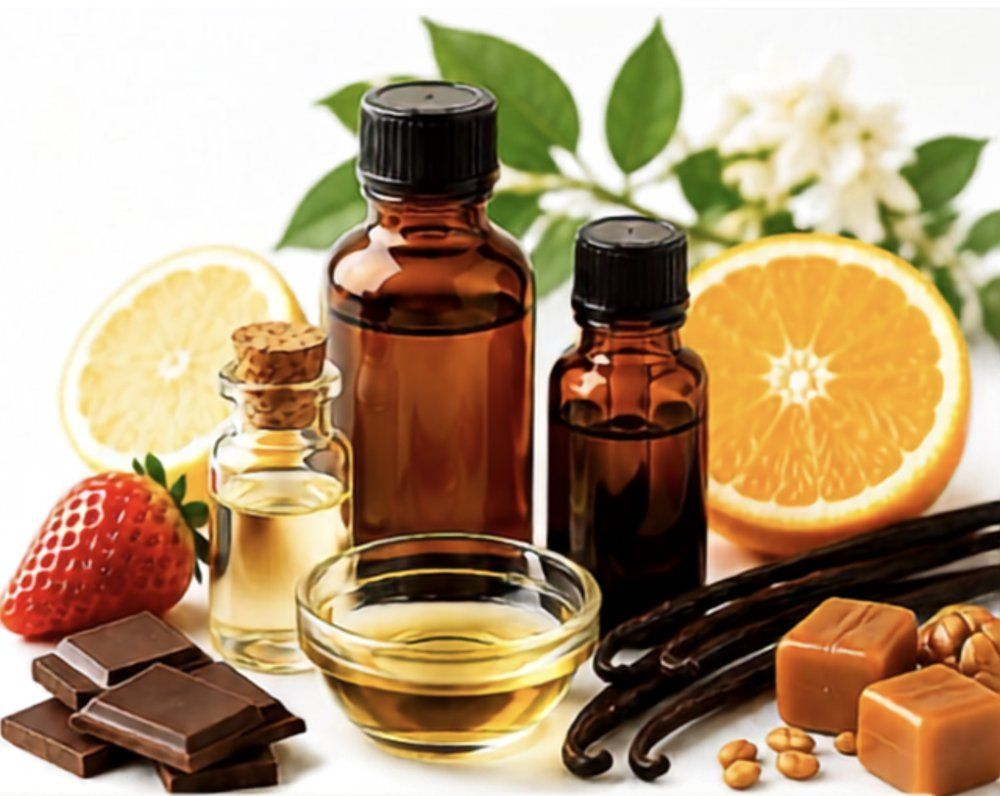
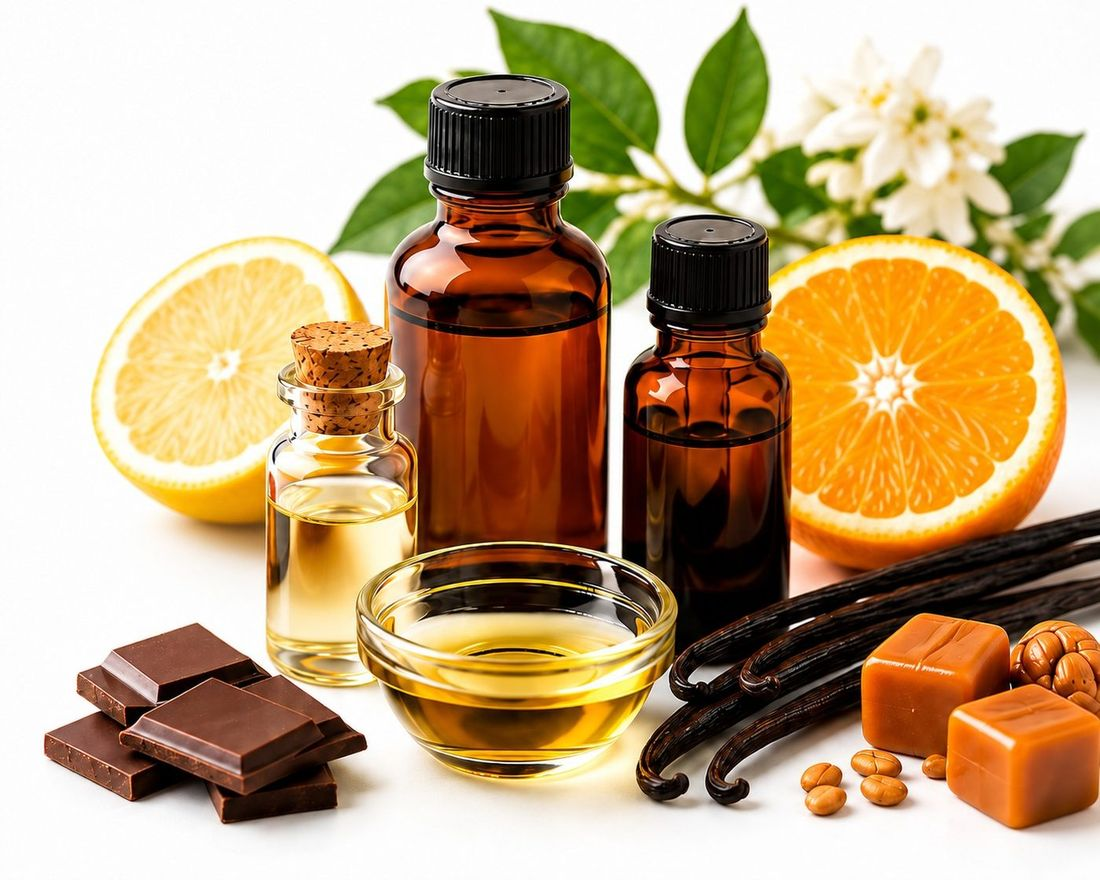
Review fixes: new images, group band contrast, PT-PT copy, richer mailto
- Replace beta-glucan, oils & butters and flavours images; update alt text
- Fix invisible YSC/Intercolor headings in light theme; align group columns
- European Portuguese wording (à medida, fitoterapêuticos, antisséticas, misturas aromáticas)
- Data sheet mailto now includes product and a request template, per language
- Add copy-to-clipboard button next to contact email
- Add .assetsignore so .git and wrangler config are not deployed

diff --git a/index.html b/index.html
@@ -329,15 +329,15 @@
 
   /* ============ GRUPO ============ */
   .group-strip{
-    display:grid;grid-template-columns:1fr auto 1fr;gap:clamp(1.5rem,4vw,3rem);align-items:center;
+    display:grid;grid-template-columns:1fr auto 1fr;gap:clamp(1.5rem,4vw,3rem);align-items:start;
     background:var(--group-bg);color:var(--group-fg);border:1px solid var(--color-border);border-radius:var(--radius);
     padding:clamp(1.8rem,4vw,2.6rem);
   }
   .group-co{text-align:center;}
   .group-co .yr{font-family:var(--font-mono);font-size:.78rem;letter-spacing:.08em;opacity:.75;}
-  .group-co h3{font-family:var(--font-display);font-size:1.5rem;margin-top:.3rem;}
+  .group-co h3{font-family:var(--font-display);font-size:1.5rem;margin-top:.3rem;color:inherit;}
   .group-co p{margin-top:.4rem;font-size:.85rem;opacity:.85;max-width:24ch;margin-inline:auto;}
-  .group-plus{font-family:var(--font-display);font-size:1.8rem;opacity:.6;text-align:center;}
+  .group-plus{font-family:var(--font-display);font-size:1.8rem;opacity:.6;text-align:center;align-self:center;}
   @media (max-width:700px){
     .group-strip{grid-template-columns:1fr;}
     .group-plus{transform:rotate(90deg);}
@@ -358,6 +358,13 @@
   .contact-list .item .lbl{font-family:var(--font-mono);font-size:.72rem;text-transform:uppercase;letter-spacing:.08em;color:var(--color-text-muted);}
   .contact-list .item a{text-decoration:none;font-weight:600;}
   .contact-list .item a:hover{color:var(--color-brand);}
+  .copy-btn{display:inline-grid;place-items:center;vertical-align:middle;margin-left:.45rem;width:28px;height:28px;padding:0;
+    background:none;border:1px solid var(--color-border);border-radius:6px;cursor:pointer;color:var(--color-text-muted);}
+  .copy-btn:hover{color:var(--color-text);border-color:var(--color-brand);}
+  .copy-btn svg{width:14px;height:14px;}
+  .copy-btn .ok,.copy-btn.copied .cp{display:none;}
+  .copy-btn.copied .ok{display:block;}
+  .copy-btn.copied{color:var(--color-brand);border-color:var(--color-brand);}
   @media (max-width:760px){.contact-panel{grid-template-columns:1fr;}}
 
   footer{border-top:1px solid var(--color-border);margin-top:2rem;}
@@ -476,7 +483,7 @@
         <div class="product-media"><span class="product-tag">YSC · desde 1966</span><img src="img/menta.jpg" loading="lazy" decoding="async" alt="Folhas de Menta Arvensis, matéria-prima do mentol natural"></div>
         <div class="product-body">
           <h3>Mentol Natural<em>Menta Arvensis</em></h3>
-          <p class="lead">A YSC, empresa do grupo, é a única produtora brasileira de mentol natural — um ingrediente de elevada pureza, origem rastreável e qualidade consistente, reconhecido pelas propriedades refrescantes, analgésicas e antissépticas.</p>
+          <p class="lead">A YSC, empresa do grupo, é a única produtora brasileira de mentol natural — um ingrediente de elevada pureza, origem rastreável e qualidade consistente, reconhecido pelas propriedades refrescantes, analgésicas e antisséticas.</p>
           <div class="spec-block">
             <h4>Apresentações disponíveis</h4>
             <div class="chip-row">
@@ -494,10 +501,10 @@
             <ul class="app-list">
               <li>Ativos refrescantes e analgésicos para OTC, higiene oral e dermocosmética</li>
               <li>Base industrial para extração de mentol e formulações farmacêuticas/cosméticas</li>
-              <li>Perfumaria funcional e blends aromáticos</li>
+              <li>Perfumaria funcional e misturas aromáticas</li>
             </ul>
           </div>
-          <div class="product-cta"><a class="btn btn-outline" href="mailto:ysclpharma@ysclpharma.com?subject=Pedido%20de%20ficha%20t%C3%A9cnica%20%E2%80%94%20Mentol%20Natural">Pedir ficha técnica</a></div>
+          <div class="product-cta"><a data-product="Mentol Natural" class="btn btn-outline" href="mailto:ysclpharma@ysclpharma.com?subject=Pedido%20de%20ficha%20t%C3%A9cnica%20%E2%80%94%20Mentol%20Natural">Pedir ficha técnica</a></div>
         </div>
       </article>
 
@@ -528,20 +535,20 @@
           <div class="spec-block">
             <h4>Aplicações</h4>
             <ul class="app-list">
-              <li>Produtos farmacêuticos e fitoterápicos</li>
+              <li>Produtos farmacêuticos e fitoterapêuticos</li>
               <li>Cosmética, dermocosmética e cuidados capilares</li>
               <li>Aromaterapia, sabonetes e higiene pessoal</li>
             </ul>
           </div>
-          <div class="product-cta"><a class="btn btn-outline" href="mailto:ysclpharma@ysclpharma.com?subject=Pedido%20de%20ficha%20t%C3%A9cnica%20%E2%80%94%20%C3%93leos%20%26%20Manteigas%20Naturais">Pedir ficha técnica</a></div>
+          <div class="product-cta"><a data-product="Óleos &amp; Manteigas Naturais" class="btn btn-outline" href="mailto:ysclpharma@ysclpharma.com?subject=Pedido%20de%20ficha%20t%C3%A9cnica%20%E2%80%94%20%C3%93leos%20%26%20Manteigas%20Naturais">Pedir ficha técnica</a></div>
         </div>
       </article>
 
       <article class="product">
-        <div class="product-media"><span class="product-tag">Intercolor · desde 1987</span><img src="img/aromas.jpg" loading="lazy" decoding="async" alt="Frascos de óleos essenciais e velas para aromaterapia"></div>
+        <div class="product-media"><span class="product-tag">Intercolor · desde 1987</span><img src="img/aromas.jpg" loading="lazy" decoding="async" alt="Frascos de aromas com laranja, limão, baunilha, chocolate e caramelo"></div>
         <div class="product-body">
           <h3>Aromas Personalizados</h3>
-          <p class="lead">Na Intercolor desenvolvemos aromas sob medida para cada cliente, mercado e aplicação — pela reprodução fiel de um perfil sensorial de referência ou pela criação de soluções exclusivas, alinhadas ao posicionamento de cada produto.</p>
+          <p class="lead">Na Intercolor desenvolvemos aromas à medida para cada cliente, mercado e aplicação — pela reprodução fiel de um perfil sensorial de referência ou pela criação de soluções exclusivas, alinhadas ao posicionamento de cada produto.</p>
           <div class="spec-block">
             <h4>Indústrias servidas</h4>
             <div class="chip-row">
@@ -557,7 +564,7 @@
               <span class="chip">Preparação Hidrossolúvel</span><span class="chip">Preparação Lipossolúvel</span>
             </div>
           </div>
-          <div class="product-cta"><a class="btn btn-outline" href="mailto:ysclpharma@ysclpharma.com?subject=Pedido%20de%20ficha%20t%C3%A9cnica%20%E2%80%94%20Aromas%20Personalizados">Pedir ficha técnica</a></div>
+          <div class="product-cta"><a data-product="Aromas Personalizados" class="btn btn-outline" href="mailto:ysclpharma@ysclpharma.com?subject=Pedido%20de%20ficha%20t%C3%A9cnica%20%E2%80%94%20Aromas%20Personalizados">Pedir ficha técnica</a></div>
         </div>
       </article>
     </div>
@@ -585,7 +592,7 @@
               <span class="chip">Nutrição Desportiva</span><span class="chip">Saúde Oral</span><span class="chip">Aplicações Veterinárias</span>
             </div>
           </div>
-          <div class="product-cta"><a class="btn btn-outline" href="mailto:ysclpharma@ysclpharma.com?subject=Pedido%20de%20ficha%20t%C3%A9cnica%20%E2%80%94%20Probi%C3%B3ticos%2C%20Prebi%C3%B3ticos%20e%20P%C3%B3s-bi%C3%B3ticos">Pedir ficha técnica</a><button type="button" class="btn strain-toggle" aria-expanded="false" aria-controls="strain-panel">Ver estirpes disponíveis<svg viewBox="0 0 24 24" fill="none" stroke="currentColor" stroke-width="2" stroke-linecap="round" aria-hidden="true"><path d="M6 9l6 6 6-6"/></svg></button></div>
+          <div class="product-cta"><a data-product="Probióticos, Prebióticos e Pós-bióticos" class="btn btn-outline" href="mailto:ysclpharma@ysclpharma.com?subject=Pedido%20de%20ficha%20t%C3%A9cnica%20%E2%80%94%20Probi%C3%B3ticos%2C%20Prebi%C3%B3ticos%20e%20P%C3%B3s-bi%C3%B3ticos">Pedir ficha técnica</a><button type="button" class="btn strain-toggle" aria-expanded="false" aria-controls="strain-panel">Ver estirpes disponíveis<svg viewBox="0 0 24 24" fill="none" stroke="currentColor" stroke-width="2" stroke-linecap="round" aria-hidden="true"><path d="M6 9l6 6 6-6"/></svg></button></div>
         </div>
         <div class="strain-panel" id="strain-panel" hidden>
           <div class="strain-group">
@@ -623,7 +630,7 @@
       </div>
 
       <div class="bio-feature reverse">
-        <div class="bio-media"><span class="product-tag">S. cerevisiae · Parede celular</span><img src="img/beta-glucana.jpg" loading="lazy" decoding="async" alt="Cápsula de beta-glucana e estrutura molecular (1-3)(1-6) beta-D-glucano"><span class="bio-caption">Estrutura (1→3)(1→6) β-D-Glucano</span></div>
+        <div class="bio-media"><span class="product-tag">S. cerevisiae · Parede celular</span><img src="img/beta-glucana.jpg" loading="lazy" decoding="async" alt="Ilustração de uma partícula de beta-glucana"><span class="bio-caption">Estrutura (1→3)(1→6) β-D-Glucano</span></div>
         <div class="bio-text">
           <span class="eyebrow">Ingrediente funcional</span>
           <h3 style="margin-top:.5rem;">Beta-Glucana</h3>
@@ -641,7 +648,7 @@
             <span class="chip">Suplementação Alimentar</span><span class="chip">Alimentos Funcionais</span>
             <span class="chip">Nutrição Animal</span><span class="chip">Cosmética</span>
           </div>
-          <div class="product-cta"><a class="btn btn-outline" href="mailto:ysclpharma@ysclpharma.com?subject=Pedido%20de%20ficha%20t%C3%A9cnica%20%E2%80%94%20Beta-Glucana">Pedir ficha técnica</a></div>
+          <div class="product-cta"><a data-product="Beta-Glucana" class="btn btn-outline" href="mailto:ysclpharma@ysclpharma.com?subject=Pedido%20de%20ficha%20t%C3%A9cnica%20%E2%80%94%20Beta-Glucana">Pedir ficha técnica</a></div>
         </div>
       </div>
     </div>
@@ -695,14 +702,14 @@
           <h2>Vamos conversar sobre o seu projeto.</h2>
           <p class="lead">Peça a ficha técnica de qualquer ingrediente do nosso portfólio ou fale diretamente com a nossa equipa técnica sobre especificações, aplicações e disponibilidade.</p>
           <div class="contact-cta">
-            <a class="btn btn-accent" href="mailto:ysclpharma@ysclpharma.com?subject=Pedido%20de%20ficha%20t%C3%A9cnica">Pedir ficha técnica</a>
+            <a class="btn btn-accent" data-product="" href="mailto:ysclpharma@ysclpharma.com?subject=Pedido%20de%20ficha%20t%C3%A9cnica">Pedir ficha técnica</a>
             <a class="btn btn-outline" href="tel:+351935619005">Ligar agora</a>
           </div>
         </div>
         <div class="contact-list">
           <div class="item">
             <svg viewBox="0 0 24 24" fill="none" stroke="currentColor" stroke-width="1.8"><rect x="3" y="5" width="18" height="14" rx="2"/><path d="M3 7l9 6 9-6"/></svg>
-            <div><span class="lbl">Email</span><br><a href="mailto:ysclpharma@ysclpharma.com">ysclpharma@ysclpharma.com</a></div>
+            <div><span class="lbl">Email</span><br><a href="mailto:ysclpharma@ysclpharma.com">ysclpharma@ysclpharma.com</a><button type="button" class="copy-btn" data-copy="ysclpharma@ysclpharma.com" aria-label="Copiar email"><svg class="cp" viewBox="0 0 24 24" fill="none" stroke="currentColor" stroke-width="2" aria-hidden="true"><rect x="9" y="9" width="12" height="12" rx="2"/><path d="M5 15V5a2 2 0 0 1 2-2h10"/></svg><svg class="ok" viewBox="0 0 24 24" fill="none" stroke="currentColor" stroke-width="2.4" stroke-linecap="round" aria-hidden="true"><path d="M5 12l5 5 9-10"/></svg></button></div>
           </div>
           <div class="item">
             <svg viewBox="0 0 24 24" fill="none" stroke="currentColor" stroke-width="1.8"><path d="M22 16.9v3a2 2 0 0 1-2.2 2 19.8 19.8 0 0 1-8.6-3.1 19.5 19.5 0 0 1-6-6A19.8 19.8 0 0 1 2.1 4.2 2 2 0 0 1 4.1 2h3a2 2 0 0 1 2 1.7c.1.9.3 1.8.6 2.7a2 2 0 0 1-.5 2.1L8 9.7a16 16 0 0 0 6 6l1.2-1.2a2 2 0 0 1 2.1-.5c.9.3 1.8.5 2.7.6a2 2 0 0 1 1.7 2.1z"/></svg>
@@ -806,7 +813,7 @@
       "YSC · desde 1966":["YSC · since 1966","YSC · desde 1966"],
       "Folhas de Menta Arvensis, matéria-prima do mentol natural":["Mentha arvensis leaves, the raw material for natural menthol","Hojas de Menta Arvensis, materia prima del mentol natural"],
       "Mentol Natural":["Natural Menthol","Mentol Natural"],
-      "A YSC, empresa do grupo, é a única produtora brasileira de mentol natural — um ingrediente de elevada pureza, origem rastreável e qualidade consistente, reconhecido pelas propriedades refrescantes, analgésicas e antissépticas.":["YSC, a group company, is Brazil's only producer of natural menthol — a high-purity ingredient with traceable origin and consistent quality, known for its cooling, analgesic and antiseptic properties.","YSC, empresa del grupo, es la única productora brasileña de mentol natural — un ingrediente de alta pureza, origen trazable y calidad constante, reconocido por sus propiedades refrescantes, analgésicas y antisépticas."],
+      "A YSC, empresa do grupo, é a única produtora brasileira de mentol natural — um ingrediente de elevada pureza, origem rastreável e qualidade consistente, reconhecido pelas propriedades refrescantes, analgésicas e antisséticas.":["YSC, a group company, is Brazil's only producer of natural menthol — a high-purity ingredient with traceable origin and consistent quality, known for its cooling, analgesic and antiseptic properties.","YSC, empresa del grupo, es la única productora brasileña de mentol natural — un ingrediente de alta pureza, origen trazable y calidad constante, reconocido por sus propiedades refrescantes, analgésicas y antisépticas."],
       "Apresentações disponíveis":["Available forms","Presentaciones disponibles"],
       "Mentol Cristalizado Natural":["Natural Crystallised Menthol","Mentol Cristalizado Natural"],
       "Mentol Natural em Pó":["Natural Menthol Powder","Mentol Natural en Polvo"],
@@ -817,7 +824,7 @@
       "Óleo de Spearmint":["Spearmint Oil","Aceite de Hierbabuena"],
       "Ativos refrescantes e analgésicos para OTC, higiene oral e dermocosmética":["Cooling and analgesic actives for OTC, oral care and dermocosmetics","Activos refrescantes y analgésicos para OTC, higiene bucal y dermocosmética"],
       "Base industrial para extração de mentol e formulações farmacêuticas/cosméticas":["Industrial base for menthol extraction and pharmaceutical/cosmetic formulations","Base industrial para la extracción de mentol y formulaciones farmacéuticas/cosméticas"],
-      "Perfumaria funcional e blends aromáticos":["Functional perfumery and aromatic blends","Perfumería funcional y mezclas aromáticas"],
+      "Perfumaria funcional e misturas aromáticas":["Functional perfumery and aromatic blends","Perfumería funcional y mezclas aromáticas"],
       "YSC · Amazónia & Cerrado":["YSC · Amazon & Cerrado","YSC · Amazonía y Cerrado"],
       "Óleos essenciais, óleos vegetais e manteigas naturais":["Essential oils, vegetable oils and natural butters","Aceites esenciales, aceites vegetales y mantecas naturales"],
       "Óleos & Manteigas Naturais":["Natural Oils & Butters","Aceites y Mantecas Naturales"],
@@ -828,13 +835,13 @@
       "Eucalipto Globulus":["Eucalyptus Globulus","Eucalipto Globulus"],
       "Cravo-da-Índia":["Clove","Clavo"],
       "Manteigas naturais":["Natural butters","Mantecas naturales"],
-      "Produtos farmacêuticos e fitoterápicos":["Pharmaceutical and herbal products","Productos farmacéuticos y fitoterápicos"],
+      "Produtos farmacêuticos e fitoterapêuticos":["Pharmaceutical and herbal products","Productos farmacéuticos y fitoterápicos"],
       "Cosmética, dermocosmética e cuidados capilares":["Cosmetics, dermocosmetics and hair care","Cosmética, dermocosmética y cuidado capilar"],
       "Aromaterapia, sabonetes e higiene pessoal":["Aromatherapy, soaps and personal care","Aromaterapia, jabones e higiene personal"],
       "Intercolor · desde 1987":["Intercolor · since 1987","Intercolor · desde 1987"],
-      "Frascos de óleos essenciais e velas para aromaterapia":["Essential oil bottles and aromatherapy candles","Frascos de aceites esenciales y velas de aromaterapia"],
+      "Frascos de aromas com laranja, limão, baunilha, chocolate e caramelo":["Flavour bottles with orange, lemon, vanilla, chocolate and caramel","Frascos de aromas con naranja, limón, vainilla, chocolate y caramelo"],
       "Aromas Personalizados":["Custom Flavours","Aromas Personalizados"],
-      "Na Intercolor desenvolvemos aromas sob medida para cada cliente, mercado e aplicação — pela reprodução fiel de um perfil sensorial de referência ou pela criação de soluções exclusivas, alinhadas ao posicionamento de cada produto.":["At Intercolor we develop tailor-made flavours for each customer, market and application — by faithfully reproducing a reference sensory profile or by creating exclusive solutions aligned with each product's positioning.","En Intercolor desarrollamos aromas a medida para cada cliente, mercado y aplicación — mediante la reproducción fiel de un perfil sensorial de referencia o la creación de soluciones exclusivas, alineadas con el posicionamiento de cada producto."],
+      "Na Intercolor desenvolvemos aromas à medida para cada cliente, mercado e aplicação — pela reprodução fiel de um perfil sensorial de referência ou pela criação de soluções exclusivas, alinhadas ao posicionamento de cada produto.":["At Intercolor we develop tailor-made flavours for each customer, market and application — by faithfully reproducing a reference sensory profile or by creating exclusive solutions aligned with each product's positioning.","En Intercolor desarrollamos aromas a medida para cada cliente, mercado y aplicación — mediante la reproducción fiel de un perfil sensorial de referencia o la creación de soluciones exclusivas, alineadas con el posicionamiento de cada producto."],
       "Indústrias servidas":["Industries served","Industrias atendidas"],
       "Alimentar":["Food","Alimentaria"],
       "Bebidas":["Beverages","Bebidas"],
@@ -865,7 +872,7 @@
       "Saúde Oral":["Oral Health","Salud Bucal"],
       "Aplicações Veterinárias":["Veterinary Applications","Aplicaciones Veterinarias"],
       "S. cerevisiae · Parede celular":["S. cerevisiae · Cell wall","S. cerevisiae · Pared celular"],
-      "Cápsula de beta-glucana e estrutura molecular (1-3)(1-6) beta-D-glucano":["Beta-glucan capsule and (1-3)(1-6) beta-D-glucan molecular structure","Cápsula de betaglucano y estructura molecular (1-3)(1-6) beta-D-glucano"],
+      "Ilustração de uma partícula de beta-glucana":["Illustration of a beta-glucan particle","Ilustración de una partícula de betaglucano"],
       "Estrutura (1→3)(1→6) β-D-Glucano":["(1→3)(1→6) β-D-Glucan structure","Estructura (1→3)(1→6) β-D-Glucano"],
       "Ingrediente funcional":["Functional ingredient","Ingrediente funcional"],
       "Beta-Glucana":["Beta-Glucan","Betaglucano"],
@@ -924,6 +931,7 @@
       "Portfólio completo de estirpes — incluindo B. breve, L. reuteri, L. plantarum e outras — disponível mediante pedido.":["Full strain portfolio — including B. breve, L. reuteri, L. plantarum and more — available on request.","Portafolio completo de cepas — incluidas B. breve, L. reuteri, L. plantarum y otras — disponible bajo petición."],
       "O Grupo":["The Group","El Grupo"],
       "YSCL Pharma — início":["YSCL Pharma — home","YSCL Pharma — inicio"],
+      "Copiar email":["Copy email","Copiar email"],
       "Idioma":["Language","Idioma"]
     };
     var IDX = {en:0, es:1};
@@ -939,6 +947,20 @@
         if(v && T[v]) attrs.push({el:el, a:a, pt:v});
       });
     });
+    var MAIL = {
+      pt:['Pedido de ficha técnica','Empresa:\nPaís:\nProduto / aplicação:\nVolume anual estimado:\n'],
+      en:['Data sheet request','Company:\nCountry:\nProduct / application:\nEstimated annual volume:\n'],
+      es:['Solicitud de ficha técnica','Empresa:\nPaís:\nProducto / aplicación:\nVolumen anual estimado:\n']
+    };
+    document.querySelectorAll('.copy-btn').forEach(function(b){
+      b.addEventListener('click', function(){
+        if(!navigator.clipboard) return;
+        navigator.clipboard.writeText(b.dataset.copy).then(function(){
+          b.classList.add('copied');
+          setTimeout(function(){ b.classList.remove('copied'); }, 1500);
+        });
+      });
+    });
     function setLang(lang){
       var i = IDX[lang];
       nodes.forEach(function(o){
@@ -946,6 +968,11 @@
       });
       attrs.forEach(function(o){ o.el.setAttribute(o.a, i == null ? o.pt : T[o.pt][i]); });
       document.documentElement.lang = lang;
+      var mail = MAIL[lang] || MAIL.pt;
+      document.querySelectorAll('a[data-product]').forEach(function(a){
+        var p = a.dataset.product, name = p && (i == null || !T[p] ? p : T[p][i]);
+        a.href = 'mailto:ysclpharma@ysclpharma.com?subject=' + encodeURIComponent(mail[0] + (name ? ' — ' + name : '')) + '&body=' + encodeURIComponent(mail[1]);
+      });
       document.querySelectorAll('.lang-switch button').forEach(function(b){
         b.setAttribute('aria-pressed', b.dataset.lang === lang ? 'true' : 'false');
       });
